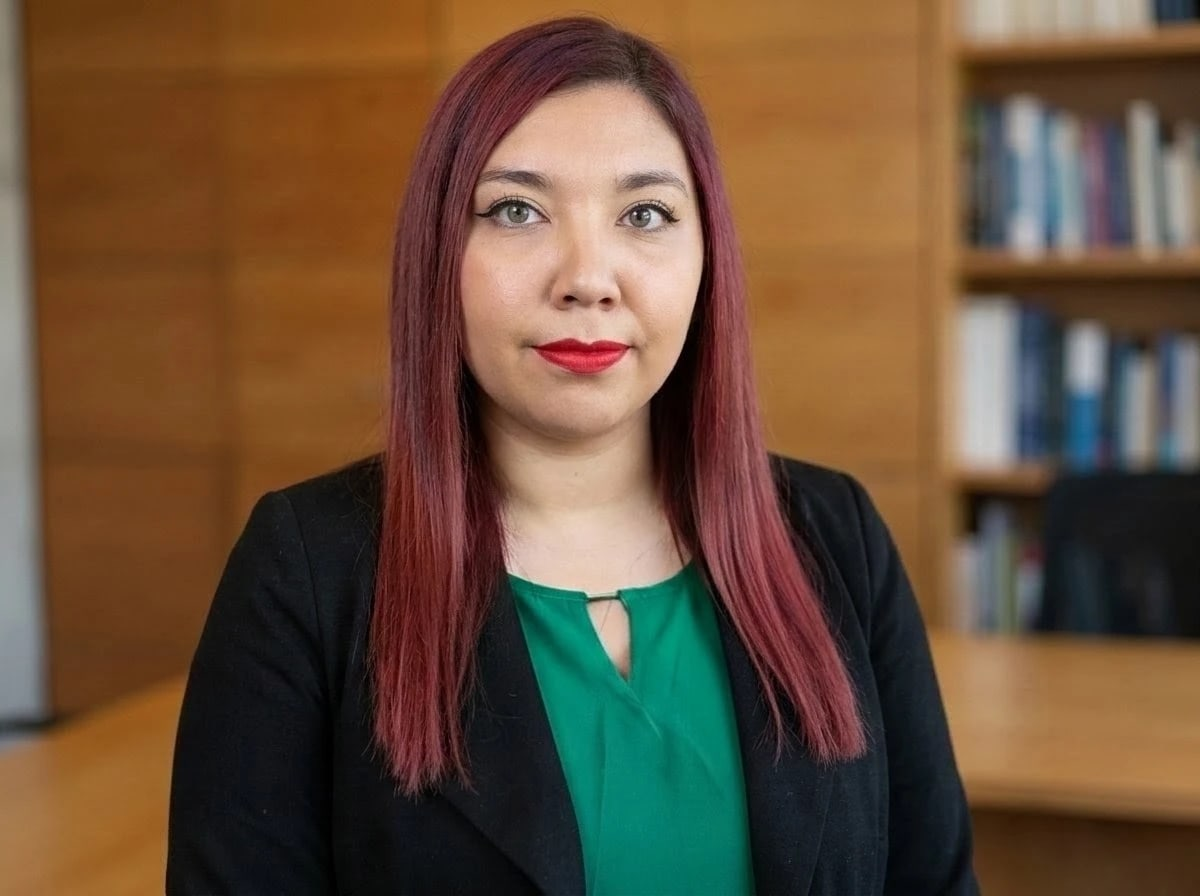
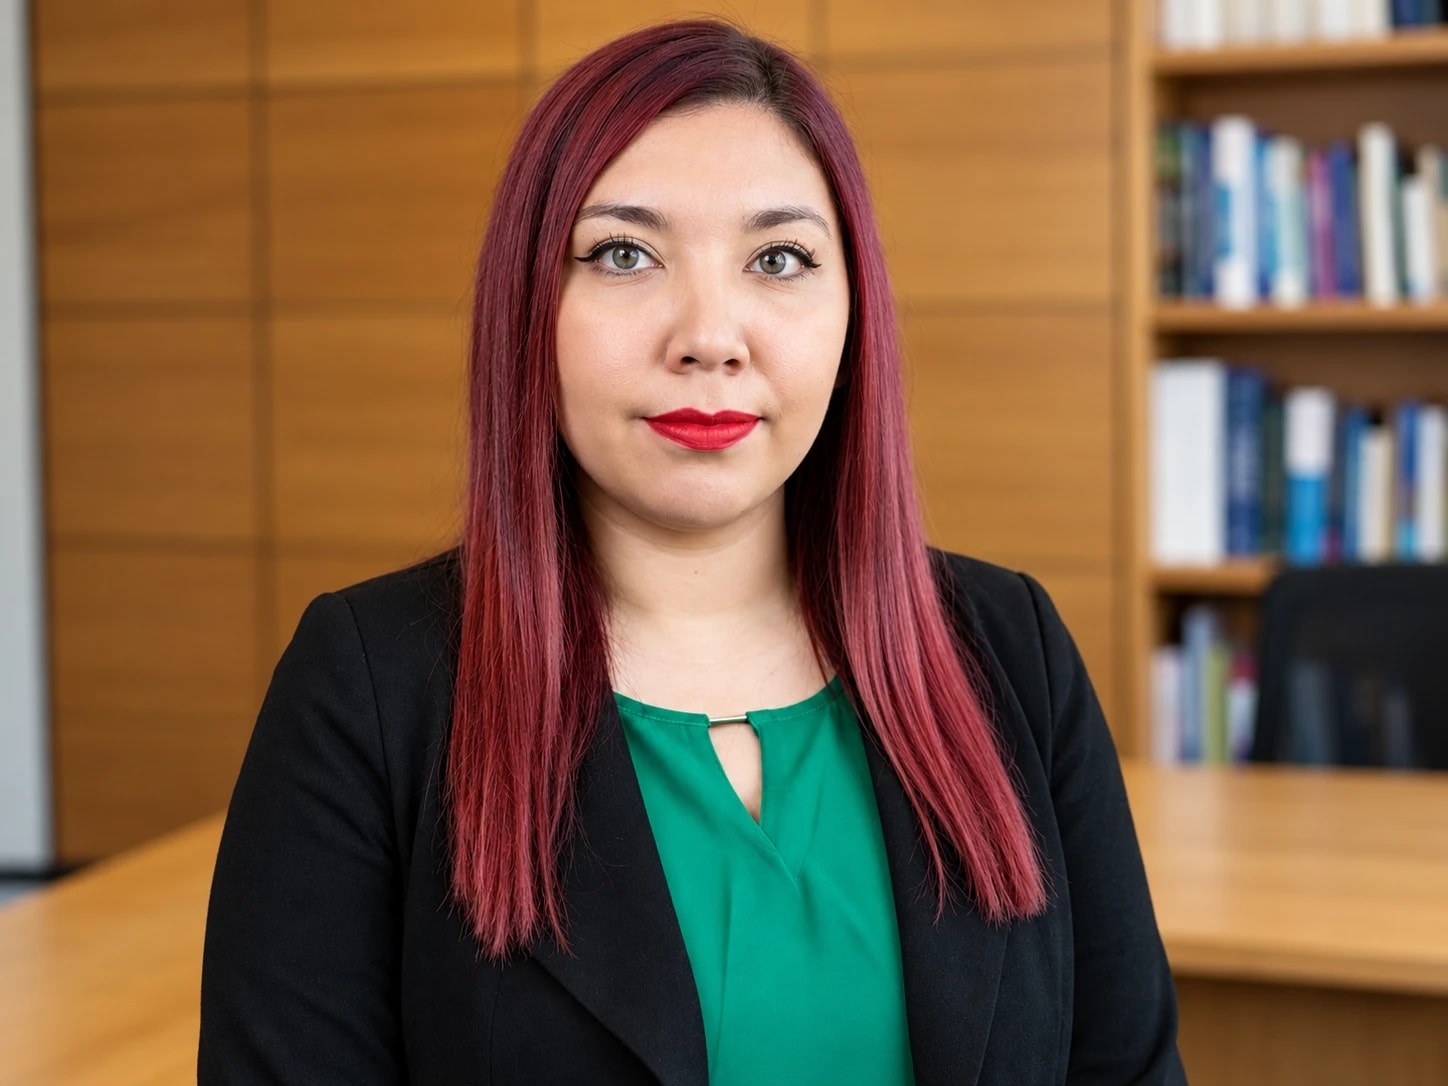
Foto de la fundadora: nueva imagen y marco sin borde blanco

diff --git a/estudio-legal/components/sections/SobreAbogada.tsx b/estudio-legal/components/sections/SobreAbogada.tsx
@@ -10,16 +10,22 @@ export default function SobreAbogada() {
     <section id="sobre-mi" className="bg-marina py-24 lg:py-32 trama">
       <div className="mx-auto grid max-w-6xl gap-14 px-6 lg:grid-cols-[.8fr_1.2fr] lg:items-center">
         <Reveal>
-          <div className="relative mx-auto aspect-[4/5] w-full max-w-sm overflow-hidden rounded-2xl border border-plata/12 bg-pizarra/40 lg:mx-0">
-            <Image
-              src="/images/baitiare-pavez.jpg"
-              alt={`${site.fundadora}, abogada fundadora de ${site.marca}`}
-              fill
-              sizes="(max-width: 384px) 100vw, 384px"
-              className="object-cover object-[47%_30%]"
-            />
-            <div className="pointer-events-none absolute inset-0 bg-[linear-gradient(155deg,rgba(76,141,255,.14),transparent_55%)]" />
-            <div className="absolute -top-px left-10 right-10 h-px bg-gradient-to-r from-transparent via-electrico/50 to-transparent" />
+          <div className="relative mx-auto w-full max-w-sm lg:mx-0">
+            {/* Resplandor suave detrás de la foto, en el azul del sitio */}
+            <div className="pointer-events-none absolute -inset-6 rounded-[2rem] bg-electrico/10 blur-3xl" />
+            <div className="relative aspect-[4/5] overflow-hidden rounded-2xl bg-pizarra/40 shadow-[0_30px_80px_-30px_rgba(0,0,0,.85)] ring-1 ring-inset ring-plata/15">
+              <Image
+                src="/images/baitiare-pavez.jpg"
+                alt={`${site.fundadora}, abogada fundadora de ${site.marca}`}
+                fill
+                sizes="(max-width: 384px) 100vw, 384px"
+                className="object-cover object-[42%_30%]"
+              />
+              {/* Viraje azul y degradado inferior para que la foto se funda con el fondo de la sección */}
+              <div className="pointer-events-none absolute inset-0 bg-[linear-gradient(155deg,rgba(76,141,255,.16),transparent_55%)]" />
+              <div className="pointer-events-none absolute inset-x-0 bottom-0 h-1/3 bg-gradient-to-t from-marina/90 via-marina/40 to-transparent" />
+              <div className="absolute -top-px left-10 right-10 h-px bg-gradient-to-r from-transparent via-electrico/50 to-transparent" />
+            </div>
           </div>
         </Reveal>
 
